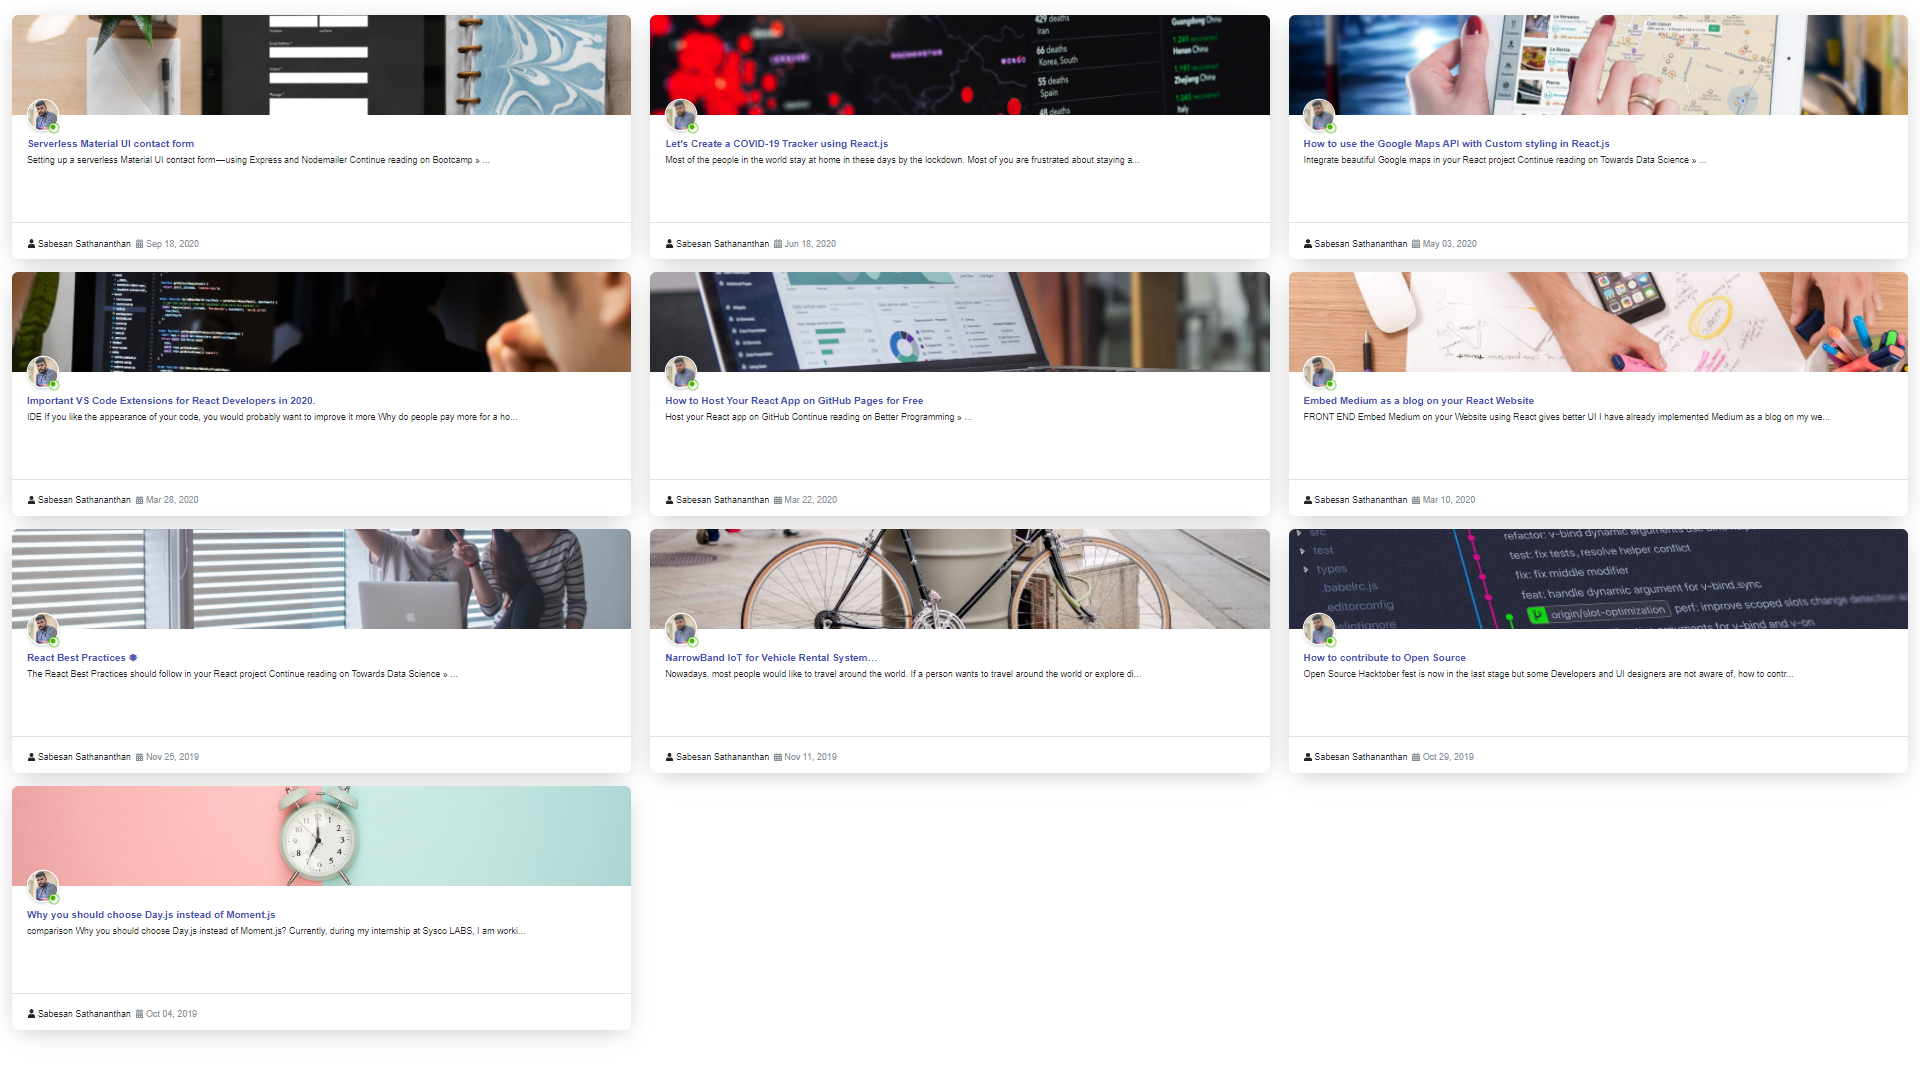
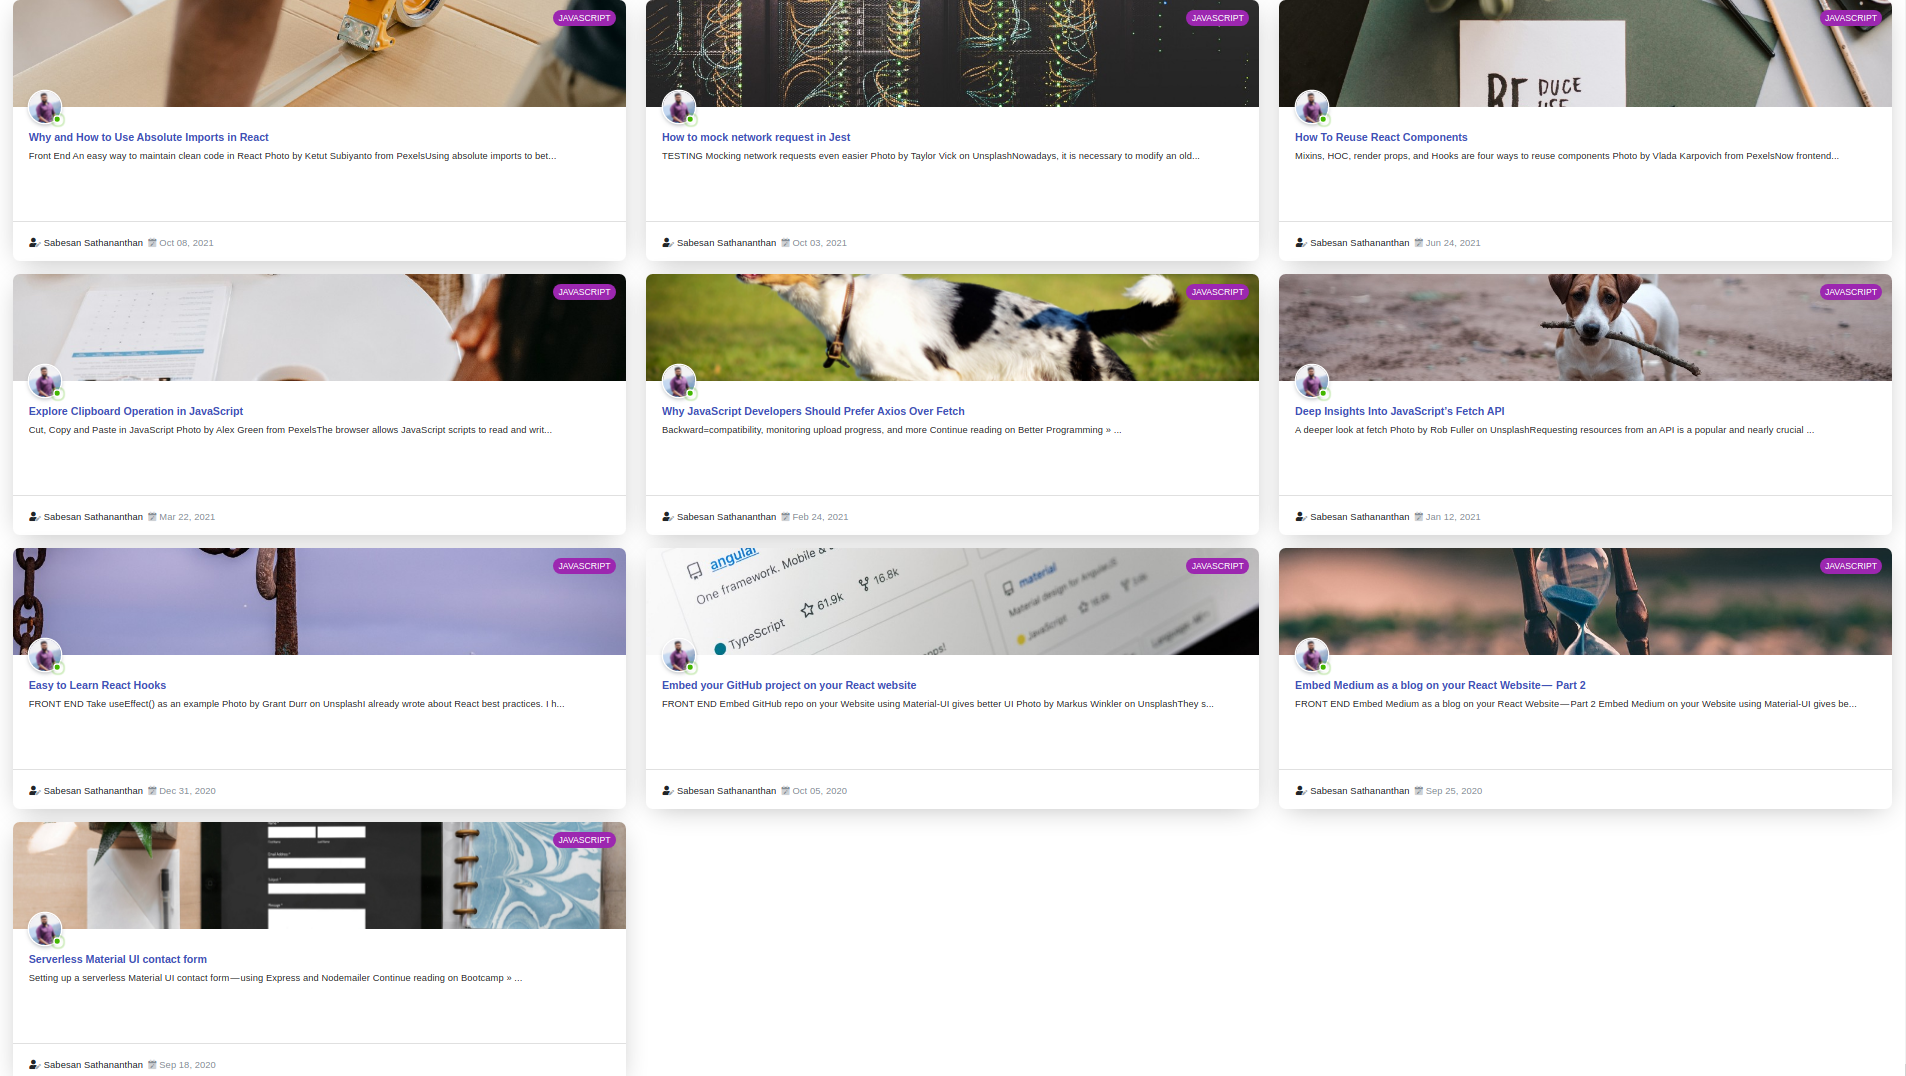
fix: refactor

diff --git a/src/Components/Slider.js b/src/Components/Slider.js
@@ -2,118 +2,88 @@ import React, { useEffect, useState } from "react";
 import { Grid } from "@material-ui/core";
 import PostCard from "./PostCard";
 import axios from "axios";
+import sortAndSetCategory from "../utils/SortAndSetCategeory";
 
 // wrapper for items
 const Slider = () => {
   const [itemRows, setItemRows] = useState([]);
-  const [avatar, setAvatar] = useState("");
-  const [profileLink, setProfileLink] = useState("");
-  const [loading, setLoading] = useState(false);
+  const [loading, setLoading] = useState(true);
 
   const mediumURL =
     "https://api.rss2json.com/v1/api.json?rss_url=https://medium.com/feed/@sabesan96";
 
   useEffect(() => {
     async function fetchPostDetails() {
-      await axios.get(mediumURL).then((response) => {
-        // create two-dimensional array with 3 elements per inner array
-        const { data } = response;
-        const avatarImg = data?.feed?.image;
-        const profile = data.feed.link;
-        const items = data.items; //This is an array with the content. No feed, no info about author etc..
-        const posts = items.filter((item) => item.categories.length > 0);
-        setAvatar(avatarImg);
-        setProfileLink(profile);
-        const blogs = [];
-        posts.forEach((item, i) => {
-          item["avatar"] = avatarImg; // push avatar inside the json
-          item["profileLink"] = profile; // push profile link inside the JSON
-          blogs.push(item);
-        });
-        const tagArrays = blogs.map((item) => {
-          return item.categories;
-        });
+      await axios
+        .get(mediumURL)
+        .then((response) => {
+          const {
+            feed: { image, link },
+            items,
+          } = response?.data || {};
 
-        const allTags = tagArrays.flat();
+          const posts = items.filter((item) => item?.categories?.length > 0);
 
-        const allTagsWithCount = allTags.reduce(function (
-          tagsWithCount,
-          currentTag
-        ) {
-          tagsWithCount[currentTag] = (tagsWithCount[currentTag] || 0) + 1; //increment the number of counts of a tag
-          return tagsWithCount;
-        },
-        {});
+          const tagArrays = posts.map((item) => {
+            return item.categories;
+          });
 
-        //sort the tag(key) according its count
-        const sortedTagsArray = Object.keys(allTagsWithCount).sort(function (
-          a,
-          b
-        ) {
-          return allTagsWithCount[b] - allTagsWithCount[a];
-        });
+          const allTags = tagArrays.flat();
 
-        const tagArticle = [];
-        let removedBlogs = blogs;
+          const sortedTagsArray = sortAndSetCategory(allTags) || [];
 
-        for (let i = 0; i < sortedTagsArray.length; ++i) {
-          const blogsWithTag = removedBlogs.filter((blog) =>
-            blog.categories.includes(sortedTagsArray[i])
-          ); //filter
+          const tagArticle = [];
+          let removedBlogs = posts;
 
-          removedBlogs = removedBlogs.filter(
-            (blog) => blogsWithTag.indexOf(blog) == -1
-          ); //exclude
+          for (let i = 0; i < sortedTagsArray.length; ++i) {
+            const blogsWithTag = removedBlogs.filter((blog) =>
+              blog.categories.includes(sortedTagsArray[i])
+            ); //filter
 
-          if (blogsWithTag.length > 0) {
-            blogsWithTag.forEach((item) => {
-              item[`tag`] = sortedTagsArray[i];
-              tagArticle.push(item);
-            });
+            removedBlogs = removedBlogs.filter(
+              (blog) => blogsWithTag.indexOf(blog) === -1
+            ); //exclude
+
+            if (blogsWithTag.length > 0) {
+              blogsWithTag.forEach((item) => {
+                item.tag = sortedTagsArray[i];
+                tagArticle.push(item);
+              });
+            }
           }
-        }
 
-        const filteredTagArrays = tagArticle.map((item) => {
-          return item.tag;
-        });
+          const filteredTagArrays = tagArticle.map((item) => {
+            return item.tag;
+          });
 
-        const filteredAllTagsWithCount = filteredTagArrays.reduce(
-          (tagsWithCount, currentTag) => {
-            tagsWithCount[currentTag] = (tagsWithCount[currentTag] || 0) + 1; //increment the number of counts of a tag
-            return tagsWithCount;
-          },
-          {}
-        );
+          const filteredSortedTagsArray =
+            sortAndSetCategory(filteredTagArrays) || [];
 
-        //sort the tag(key) according its count
-        const filteredSortedTagsArray = Object.keys(
-          filteredAllTagsWithCount
-        ).sort(function (a, b) {
-          return filteredAllTagsWithCount[b] - filteredAllTagsWithCount[a];
-        });
+          tagArticle.forEach((item) => {
+            item.tagNo = filteredSortedTagsArray.indexOf(item.tag) + 1;
+            item.avatar = image; // push avatar inside the json
+            item.profileLink = link; // push profile link inside the JSON
+          });
 
-        tagArticle.forEach((item) => {
-          item.tagNo = filteredSortedTagsArray.indexOf(item.tag) + 1;
-        });
+          const tagArticleWithRow = [];
 
-        const tagArticleWithRow = [];
+          tagArticle.forEach((item, i) => {
+            const row = Math.floor(i / 3);
+            if (!tagArticleWithRow[row]) tagArticleWithRow[row] = [];
+            tagArticleWithRow[row].push(item);
+          });
 
-        tagArticle.forEach((item, i) => {
-          const row = Math.floor(i / 3);
-          if (!tagArticleWithRow[row]) tagArticleWithRow[row] = [];
-          tagArticleWithRow[row].push(item);
-        });
-
-        setItemRows(tagArticleWithRow);
-        setLoading(true);
-      });
+          setItemRows(tagArticleWithRow);
+          setLoading(false);
+        })
+        .catch((err) => console.log(err));
     }
     fetchPostDetails();
   }, []);
 
   return (
     <Grid container spacing={1}>
-      {loading &&
+      {!loading &&
         itemRows.length > 0 &&
         itemRows.map((row, id) =>
           row.map((item, key) => <PostCard {...item} key={key} />)

diff --git a/src/Components/PostCard.js b/src/Components/PostCard.js
@@ -132,7 +132,7 @@ export default function MediumCard(props) {
     "Nov",
     "Dec",
   ];
-  const splitDate = props.pubDate.split(" ");
+  const splitDate = props?.pubDate.split(" ");
   const date = splitDate[0];
   const splitMonth = date.split("-");
   const finalDate =
@@ -155,12 +155,12 @@ export default function MediumCard(props) {
   return (
     <Grid xs={12} sm={12} lg={4} className={classes.grid}>
       <Card className={classes.card}>
-        <CardMedia className={classes.media} image={props.thumbnail}>
+        <CardMedia className={classes.media} image={props?.thumbnail}>
           <Chip
             className={chipClasses.chip}
-            label={props.tag}
+            label={props?.tag}
             size="small"
-            style={{ backgroundColor: colors[props.tagNo] }}
+            style={{ backgroundColor: colors[props?.tagNo] }}
           />
           {isOnline ? (
             <StyledBadge
@@ -179,10 +179,10 @@ export default function MediumCard(props) {
               <Avatar
                 alt="sabesan sathananthan"
                 className={classes.avatar}
-                src={props.avatar}
+                src={props?.avatar}
                 component="a"
                 varient="rounded"
-                href={props.profilelink}
+                href={props?.profilelink}
                 target="_blank"
               />
             </StyledBadge>
@@ -190,7 +190,7 @@ export default function MediumCard(props) {
             <Avatar
               alt="sabesan sathananthan"
               className={classes.avatar}
-              src={props.avatar}
+              src={props?.avatar}
               component="a"
               style={{
                 display: "inline-block",
@@ -198,7 +198,7 @@ export default function MediumCard(props) {
                 marginLeft: "1.5625rem",
               }}
               varient="rounded"
-              href={props.profilelink}
+              href={props?.profilelink}
               target="_blank"
             />
           )}
@@ -213,16 +213,16 @@ export default function MediumCard(props) {
         >
           <Typography className={classes.heading} variant={"h5"} gutterBottom>
             <Link
-              href={props.link}
+              href={props?.link}
               target="_blank"
               rel="noopener noreferrer"
               underline="none"
             >
-              {ShortenText(props.title, 0, 75)}
+              {ShortenText(props?.title, 0, 75)}
             </Link>
           </Typography>
           <Typography className={classes.subheading} variant="body1">
-            {ShortenText(ToText(props.content), 0, 120) + "..."}
+            {ShortenText(ToText(props?.content), 0, 120) + "..."}
           </Typography>
         </CardContent>
         <Divider className={classes.divider} />
@@ -239,7 +239,7 @@ export default function MediumCard(props) {
               variant="body1"
               gutterBottom
             >
-              <i class="fad fa-user-edit"></i> {props.author}
+              <i class="fad fa-user-edit"></i> {props?.author}
             </Typography>
           </Grid>
           <Grid>

diff --git a/src/utils/SortAndSetCategeory.js b/src/utils/SortAndSetCategeory.js
@@ -1,0 +1,14 @@
+const sortAndSetCategory = (array) => {
+  const allTagsWithCount = array?.reduce((tagsWithCount, currentTag) => {
+    tagsWithCount[currentTag] = (tagsWithCount[currentTag] || 0) + 1; //increment the number of counts of a tag
+    return tagsWithCount;
+  }, {});
+
+  //sort the tag(key) according its count
+  const sortedTagsArray = Object.keys(allTagsWithCount).sort((a, b) => {
+    return allTagsWithCount[b] - allTagsWithCount[a];
+  });
+  return sortedTagsArray;
+};
+
+export default sortAndSetCategory;

diff --git a/README.md b/README.md
@@ -59,7 +59,7 @@ To setup the app for development on your local machine, please follow the instru
    ```
 
 4. Change active hours
-   Active hours set as morning 5.00 am to night 8.00 pm. You could change the active hours in [PostCard.js](./src/Components/PostCard.js). If your time zone is not Indian          Standard Time IST Change the ISTOffset value.<br>
+   Active hours set as morning 5.00 am to night 8.00 pm. You could change the active hours in [PostCard.js](./src/Components/PostCard.js). If your time zone is not Indian Standard Time IST Change the ISTOffset value.<br>
    Calculation for Finding Offset <br>
    For me it is IST. Therefore, +5:30. <br>
    Offset = +5 x 60 + 30
@@ -86,6 +86,12 @@ To setup the app for development on your local machine, please follow the instru
    ```
 
 6. Visit <http://localhost:3000>
+
+## How does the category tag work?
+
+**How can we choose a particular category tag among a medium post’s 5 category tags?**
+
+I proposed a method for that. In a particular medium post which category tag was tagged the highest time in last 10 medium posts is suitable for that post.
 
 ## [Live Demo](https://material-ui-medium-blog.vercel.app/)
 
